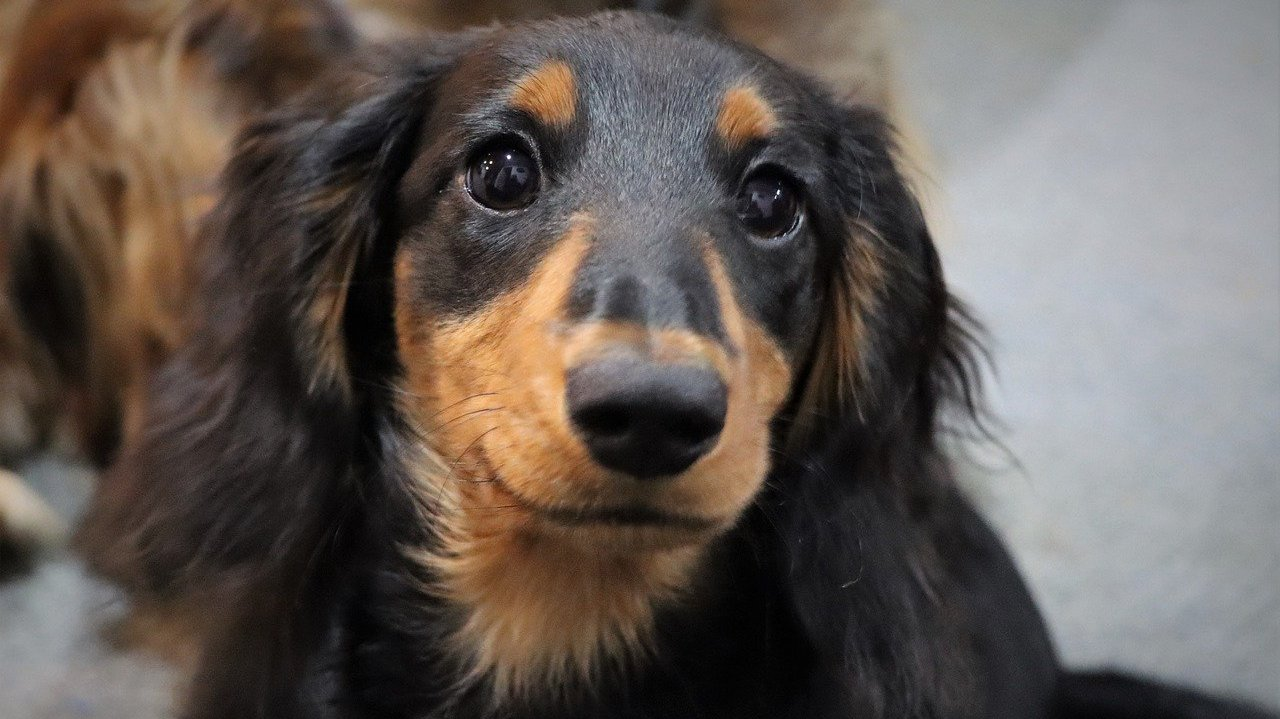
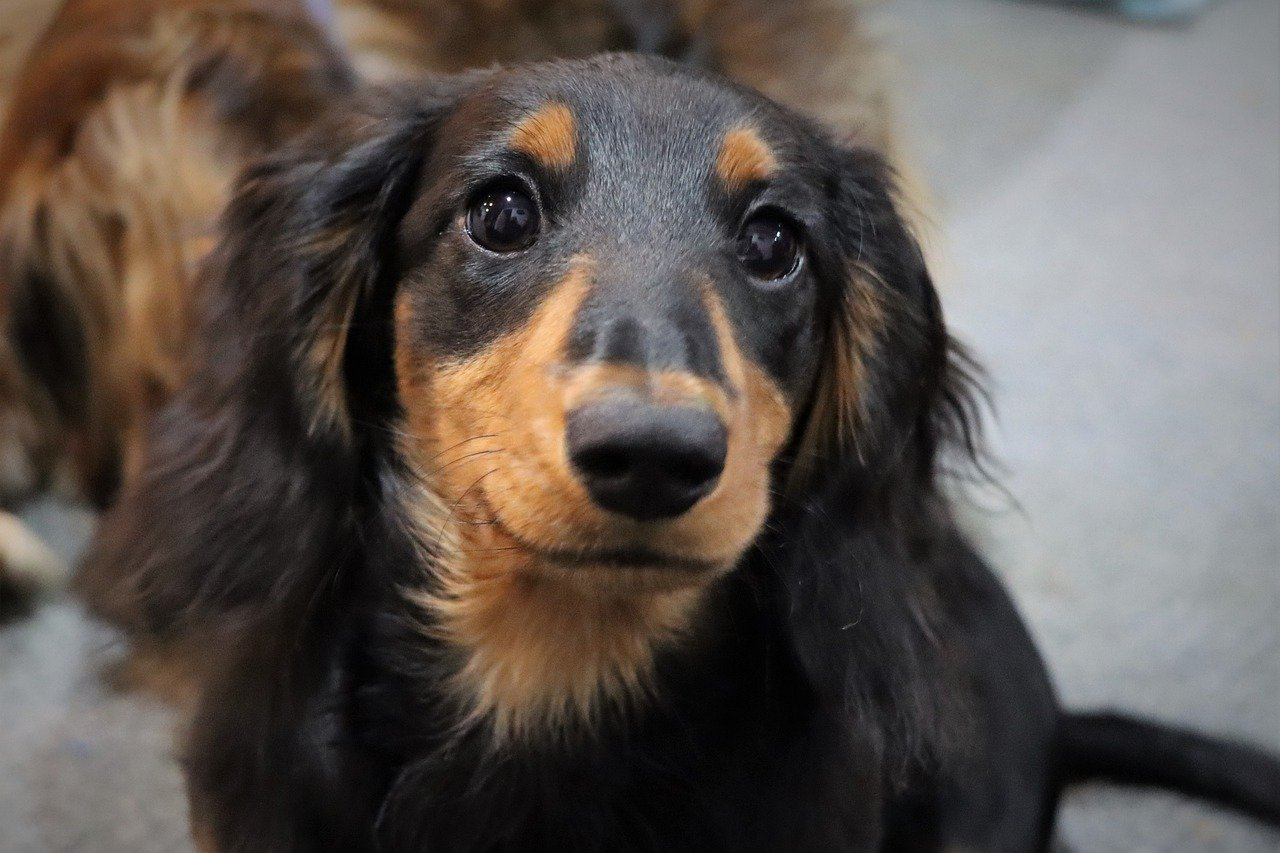
changed portfolio css

diff --git a/index.html b/index.html
@@ -67,27 +67,39 @@
 		<div class="projectContainer">
 			<div class="project">
 				<h3>Project 1</h3>
-				<img src="externalFiles/dog.jpg" alt="cute sausage dog"/>
+				<div class="projectImageContainer">
+					<img src="externalFiles/dog.jpg" alt="cute sausage dog"/>
+				</div>
 			</div>
 			<div class="project">
 				<h3>Project 2</h3>
-				<img src="externalFiles/coffee.jpg" alt="coffee, cake and a laptop"/>
+				<div class="projectImageContainer">
+					<img src="externalFiles/coffee.jpg" alt="coffee, cake and a laptop"/>
+				</div>
 			</div>
 			<div class="project">
 				<h3>Project 3</h3>
-				<img src="externalFiles/man-dealing-with-coding.jpg" alt="confused man"/>
+				<div class="projectImageContainer">
+					<img src="externalFiles/man-dealing-with-coding.jpg" alt="confused man"/>
+				</div>
 			</div>
 			<div class="project">
 				<h3>Project 4</h3>
-				<img src="externalFiles/pineapple.jpg" alt="pineapples at a party"/>
+				<div class="projectImageContainer">
+					<img src="externalFiles/pineapple.jpg" alt="pineapples at a party"/>
+				</div>
 			</div>
 			<div class="project">
 				<h3>Project 5</h3>
-				<img src="externalFiles/cosy.jpg" alt="person in blanket in front of fire with glass of red wine"/>
+				<div class="projectImageContainer">
+					<img src="externalFiles/cosy.jpg" alt="person in blanket in front of fire with glass of red wine"/>
+				</div>
 			</div>
 			<div class="project">
 				<h3>Project 6</h3>
-				<img src="externalFiles/man-excited.jpg" alt="man excited at something on laptop"/>
+				<div class="projectImageContainer">
+					<img src="externalFiles/man-excited.jpg" alt="man excited at something on laptop"/>
+				</div>
 			</div>
 		</div>
 	</section>

diff --git a/style.css b/style.css
@@ -218,8 +218,13 @@ footer p {
 }
 
 .project img {
+	height: 100%;
 	width: 100%;
 	object-fit: cover;
+}
+
+.projectImageContainer {
+	height: 100%;
 }
 
 .backgroundVideo {
